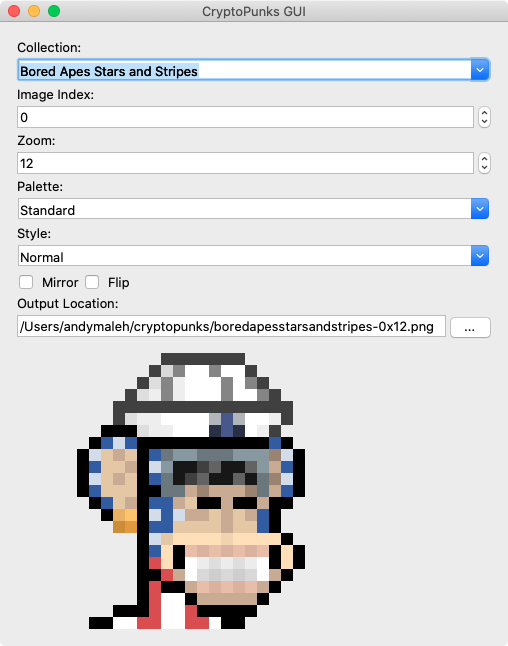
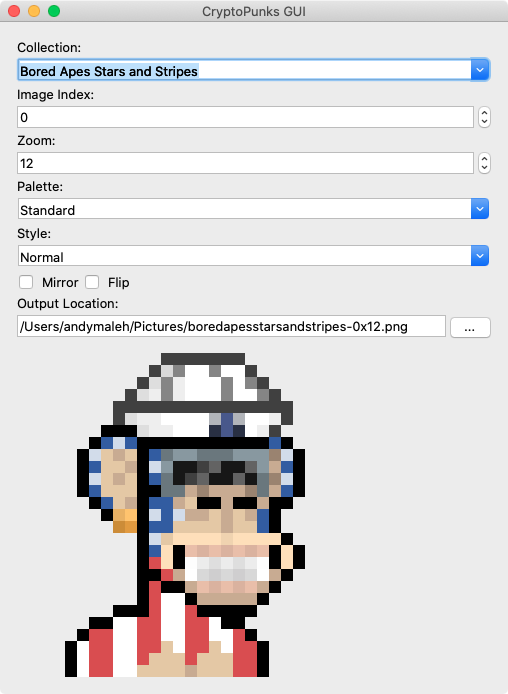
Fixed Boring Apes collection image dimensions (28x28 instead of default 24x24)

diff --git a/app/cryptopunks_gui.rb b/app/cryptopunks_gui.rb
@@ -87,7 +87,8 @@ class CryptopunksGui
     @punk_file = File.join(@punk_config_directory, File.basename(url, '.png'))
     File.write(@punk_file, Net::HTTP.get(URI(url))) unless File.exist?(@punk_file)
     @images ||= {}
-    @images[@collection] ||= Punks::Image::Composite.read(@punk_file)
+    dimension = @collection.start_with?('Bored Apes') ? 28 : 24
+    @images[@collection] ||= Punks::Image::Composite.read(@punk_file, width: dimension, height: dimension)
     @last_collection = @collection
     self.image_index = 0
     @image_index_spinbox.to = @images[@collection].size - 1 if @image_index_spinbox

diff --git a/CHANGELOG.md b/CHANGELOG.md
@@ -2,7 +2,8 @@
 
 ## 0.0.8
 
-- Add missing Boring Apes (vanilla) collection
+- Remove Boring Apes collections since they are 28x28 instead of 24x24, thus incomptible with the cryptopunks Ruby gem
+- Fixed Boring Apes collection image dimensions (28x28 instead of default 24x24)
 
 ## 0.0.7
 
